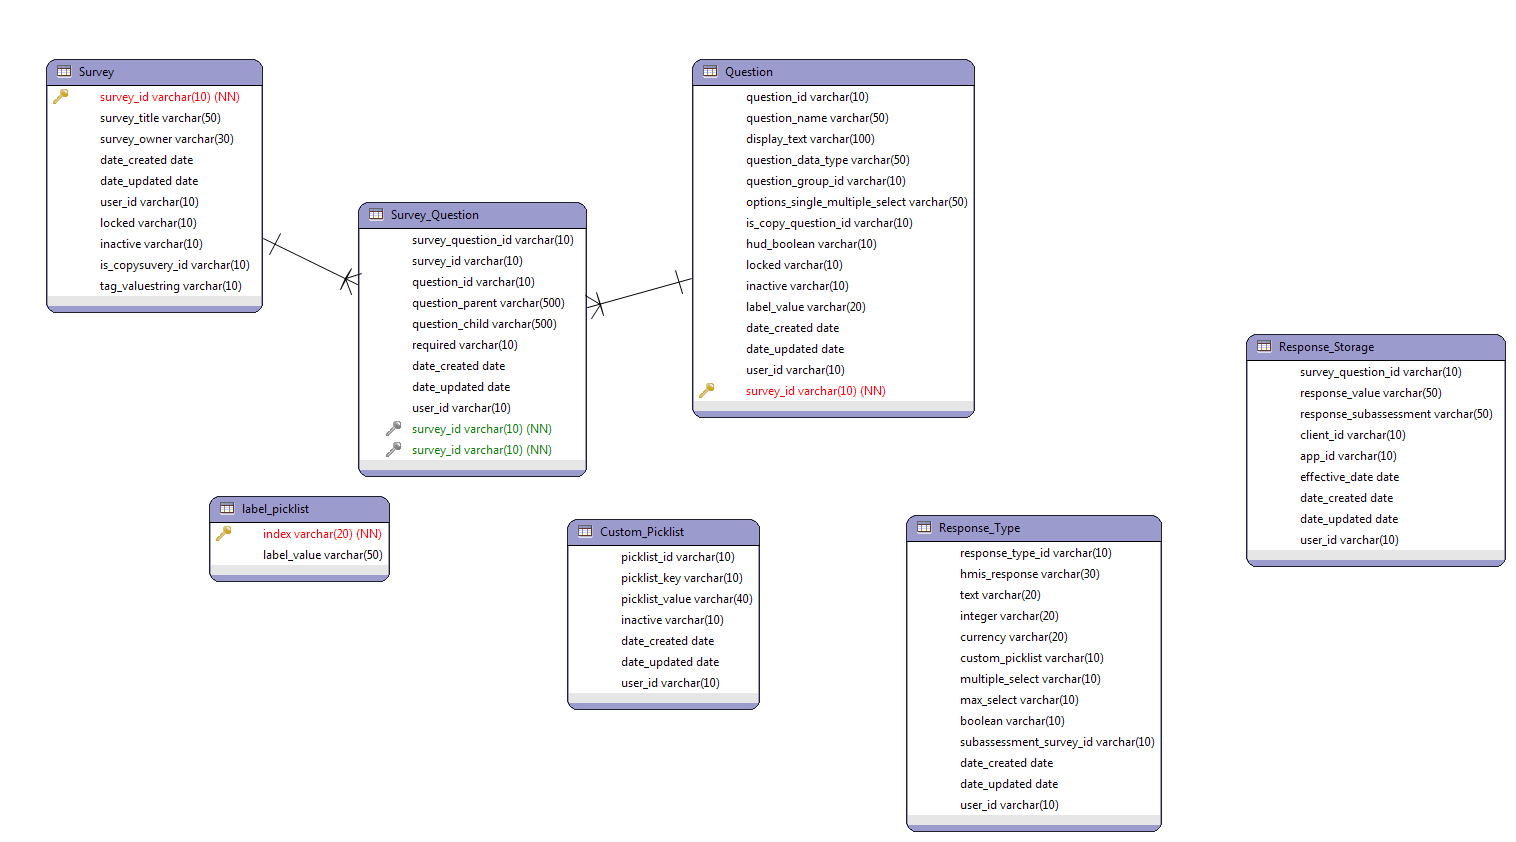
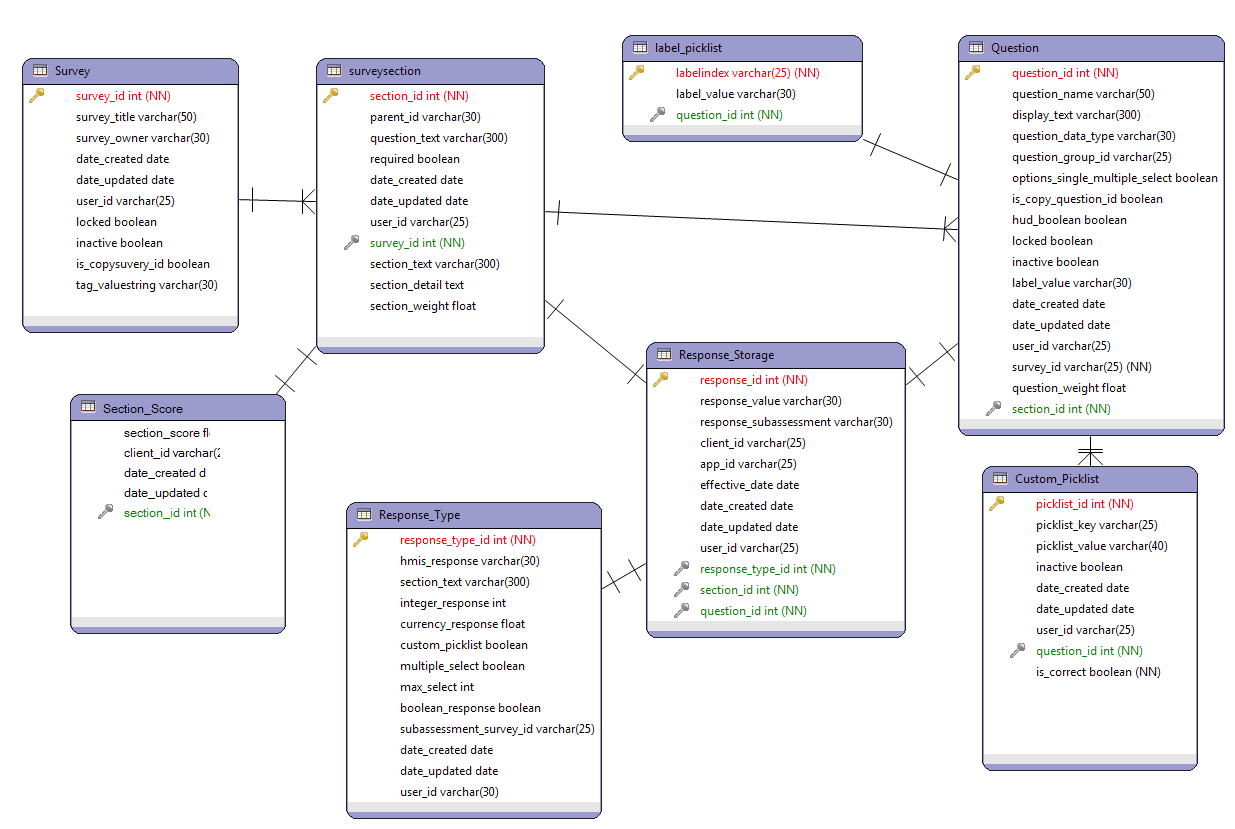
Updated ERD with same name and createsurvey API updated

diff --git a/survey/src/main/java/com/hserv/coordinatedentry/service/SurveyHandlerService.java b/survey/src/main/java/com/hserv/coordinatedentry/service/SurveyHandlerService.java
@@ -1,6 +1,6 @@
 package com.hserv.coordinatedentry.service;
 
-import java.util.ArrayList;
+import java.util.Iterator;
 import java.util.List;
 
 import javax.transaction.Transactional;
@@ -9,11 +9,14 @@ import org.springframework.beans.factory.annotation.Autowired;
 import org.springframework.dao.DataAccessException;
 import org.springframework.stereotype.Service;
 
+import com.hserv.coordinatedentry.entity.Question;
 import com.hserv.coordinatedentry.entity.Survey;
 import com.hserv.coordinatedentry.entity.SurveySection;
-import com.hserv.coordinatedentry.repository.SurveySectionRepository;
+import com.hserv.coordinatedentry.repository.QuestionBankRepository;
 import com.hserv.coordinatedentry.repository.SurveyRepository;
+import com.hserv.coordinatedentry.repository.SurveySectionRepository;
 import com.hserv.coordinatedentry.util.ResponseMessage;
+import com.hserv.coordinatedentry.view.QuestionView;
 import com.hserv.coordinatedentry.view.SurveySectionView;
 import com.hserv.coordinatedentry.view.SurveyView;
 import com.hserv.coordinatedentry.view.mapper.SurveyConverter;
@@ -24,15 +27,18 @@ public class SurveyHandlerService {
 
 	private SurveyRepository surveyRepository;
 	private SurveySectionRepository surveySectionRepository;
+	private QuestionBankRepository questionBankRepository;
 	private SurveyConverter surveyConverter;
 
 	@Autowired
 	public SurveyHandlerService(SurveyRepository surveyRepository,
 			SurveySectionRepository surveySectionRepository,
+			QuestionBankRepository questionBankRepository,
 			SurveyConverter surveyConverter) {
 		super();
 		this.surveyRepository = surveyRepository;
 		this.surveySectionRepository = surveySectionRepository;
+		this.questionBankRepository = questionBankRepository;
 		this.surveyConverter = surveyConverter;
 	}
 
@@ -43,11 +49,11 @@ public class SurveyHandlerService {
 		return surveyList;
 	}
 	
-	public SurveyView getSurveyById(Integer surveyId) {
+	public Survey getSurveyById(Integer surveyId) {
 		Survey survey = surveyRepository.findOne(surveyId);
 		SurveyView surveyView = new SurveyView(); 
 		surveyConverter.convertSurveyViewFromEntity(surveyView, survey);
-		return surveyView;
+		return survey;
 	}
 	
 	public ResponseMessage createSurvey(SurveyView surveyView) {
@@ -57,9 +63,15 @@ public class SurveyHandlerService {
 			surveyConverter.convertSurveyEntityFromView(survey, surveyView);
 			surveyRepository.save(survey);
 			
-			List<SurveySection> surveyQuestionsList = surveyConverter.populateSurveyQuestionEntityList(survey, surveyView.getSurveySection());
+			List<SurveySection> surveyQuestionsList = surveyConverter.populateSurveySectionEntityList(survey, surveyView.getSurveySection());
 			
 			surveySectionRepository.save(surveyQuestionsList);
+			for (Iterator iterator = surveyQuestionsList.iterator(); iterator
+					.hasNext();) {
+				SurveySection surveySection = (SurveySection) iterator.next();
+				questionBankRepository.save(surveySection.getQuestions());
+			}
+			
 			return ResponseMessage.SUCCESS;
 		}catch(RuntimeException exception){
 			return ResponseMessage.FAILURE;
@@ -74,14 +86,24 @@ public class SurveyHandlerService {
 			surveyRepository.saveAndFlush(survey);
 			for(SurveySectionView surveySectionView : surveyView.getSurveySection()){
 				System.out.println("surveyQuestion.getSurveyQuestionId() :"+surveySectionView.getSectionId());
-				SurveySection surveyQuestion = surveySectionRepository.findOne(surveySectionView.getSectionId());
-				surveyConverter.populateSurveyQuestionEntity(surveyQuestion, surveySectionView, survey);
-				surveySectionRepository.saveAndFlush(surveyQuestion);
+				SurveySection surveySection = surveySectionRepository.findOne(surveySectionView.getSectionId());
+				
+				surveyConverter.populateSurveySectionEntity(surveySection, surveySectionView, survey);
+				surveySectionRepository.saveAndFlush(surveySection);
+				updateQuestions(surveySectionView, surveySection);
 			}
 			
 			return ResponseMessage.SUCCESS;
 		}catch(RuntimeException exception){
 			return ResponseMessage.FAILURE;
+		}
+	}
+	
+	public void updateQuestions(SurveySectionView surveySectionView, SurveySection surveySection) {
+		for(QuestionView questionView : surveySectionView.getQuestions()){
+			Question question = questionBankRepository.findOne(questionView.getQuestionId());
+			surveyConverter.populateSurveyQuestionEntity(surveySection, question);
+			questionBankRepository.saveAndFlush(question);
 		}
 	}
 	

diff --git a/survey/src/main/java/com/hserv/coordinatedentry/view/mapper/SurveyConverter.java b/survey/src/main/java/com/hserv/coordinatedentry/view/mapper/SurveyConverter.java
@@ -10,6 +10,7 @@ import org.springframework.stereotype.Component;
 import com.hserv.coordinatedentry.entity.Question;
 import com.hserv.coordinatedentry.entity.Survey;
 import com.hserv.coordinatedentry.entity.SurveySection;
+import com.hserv.coordinatedentry.view.QuestionView;
 import com.hserv.coordinatedentry.view.SurveySectionView;
 import com.hserv.coordinatedentry.view.SurveyView;
 
@@ -35,7 +36,7 @@ public class SurveyConverter {
 		return survey;
 	}
 	
-	public List<SurveySection> populateSurveyQuestionEntityList(Survey survey, List<SurveySectionView> surveyQuestionViewList){
+	public List<SurveySection> populateSurveySectionEntityList(Survey survey, List<SurveySectionView> surveyQuestionViewList){
 		
 		List<SurveySection> surveyQuestionsList = new ArrayList<>();
 		
@@ -43,15 +44,16 @@ public class SurveyConverter {
 			for (Iterator iterator = surveyQuestionViewList.iterator(); iterator.hasNext();) {
 				SurveySectionView surveySectionView = (SurveySectionView) iterator.next();
 				
-				SurveySection surveyQuestion = new SurveySection();
-				populateSurveyQuestionEntity(surveyQuestion, surveySectionView, survey);
-				surveyQuestionsList.add(surveyQuestion);
+				SurveySection surveySection = new SurveySection();
+				
+				populateSurveySectionEntity(surveySection, surveySectionView, survey);
+				surveyQuestionsList.add(surveySection);
 			}
 		
 		return surveyQuestionsList;
 	}
 	
-	public SurveySection populateSurveyQuestionEntity(SurveySection surveySection, SurveySectionView surveySectionView, Survey survey){
+	public SurveySection populateSurveySectionEntity(SurveySection surveySection, SurveySectionView surveySectionView, Survey survey){
 		
 				surveySection.setDateCreated(surveySectionView.getDateCreated());
 				surveySection.setDateUpdated(surveySectionView.getDateUpdated());
@@ -66,7 +68,38 @@ public class SurveyConverter {
 				surveySection.setSectionDetail(surveySectionView.getSectionDetail());
 				surveySection.setSectionText(surveySectionView.getSectionText());
 				surveySection.setSectionWeight(surveySectionView.getSectionWeight());
+				surveySection.setQuestions(populateSurveyQuestionEntityList(surveySectionView, surveySection));
 				return surveySection;
+	}
+	
+	public List<Question> populateSurveyQuestionEntityList(SurveySectionView surveySectionView, SurveySection surveySection){
+		List<Question> questions = new ArrayList<>();
+		for (QuestionView questionView : surveySectionView.getQuestions()) {
+			Question question = new Question();
+			populateSurveyQuestionEntity(surveySection, question);
+			questions.add(question);
+		}
+		return questions;
+		
+	}
+	public Question populateSurveyQuestionEntity(SurveySection surveySection, Question question){
+		question.setDateCreated(new Date());
+		question.setDateUpdated(new Date());
+		question.setDisplayText("How frequent you go for vacations");
+		question.setHudBoolean(true);
+		question.setInactive(true);
+		question.setIsCopyQuestionId(false);
+		question.setLabelValue("HMIS Question");
+		question.setLocked(false);
+		question.setOptionsSingleMultipleSelect(true);
+		question.setQuestionDataType("Text");
+		question.setQuestionGroupId("Group1");
+		question.setQuestionName("Sample Question 1");
+		//question.setSurveyQuestion(surveyQuestions);
+		question.setUserId("Admin User");
+		//question.setSurveyId(surveySection.getSurveyId());
+		question.setSurveySection(surveySection);
+		return question;
 	}
 	
 	/*public List<SurveyView> convertSurveyViewListFromEntityList(List<SurveyView> surveyViewList, List<Survey> surveyList){
@@ -128,4 +161,6 @@ public class SurveyConverter {
 		surveySectionView.setSectionText(surveySection.getSectionText());
 		surveySectionView.setSectionWeight(surveySection.getSectionWeight());
 	}
+	
+	//public void populateQuestionViewFromRepo(Question)
 }

diff --git a/survey/src/main/java/com/hserv/coordinatedentry/controller/SurveyRESTImpl.java b/survey/src/main/java/com/hserv/coordinatedentry/controller/SurveyRESTImpl.java
@@ -25,23 +25,21 @@ import com.hserv.coordinatedentry.view.SurveyView;
 
 
 @RestController
+@RequestMapping("/surveys")
 public class SurveyRESTImpl {
 
 	private static final Logger logger = LoggerFactory
 			.getLogger(SurveyRESTImpl.class);
 	
-	private SurveyRepository surveyRepository;
 	private SurveyHandlerService surveyHandlerService;
 
 	@Autowired
-	public SurveyRESTImpl(SurveyRepository surveyRepository,
-			SurveyHandlerService surveyHandlerService) {
+	public SurveyRESTImpl(SurveyHandlerService surveyHandlerService) {
 		super();
-		this.surveyRepository = surveyRepository;
 		this.surveyHandlerService = surveyHandlerService;
 	}
 
-	@RequestMapping(method = RequestMethod.GET, value="/surveys/all")
+	@RequestMapping(method = RequestMethod.GET, value="/all")
 	public @ResponseBody WSResponse getSurveyQuestions(){
 		WSResponse wsRepsSts= null;
 		List<Survey> surveys = null;
@@ -61,17 +59,23 @@ public class SurveyRESTImpl {
 		
 	}
 
-	@RequestMapping(method = RequestMethod.GET, value="/surveys/{surveyId}")
+	@RequestMapping(method = RequestMethod.GET, value="/{surveyId}")
 	public @ResponseBody WSResponse getSelectedSurvey(@PathVariable Integer surveyId){
 		WSResponse wsRepsSts= null;
 		Survey survey = null;
 
 		try{
 			wsRepsSts = new WSResponse();
-			survey = surveyRepository.findOne(surveyId);
-			wsRepsSts.setData(survey);
-			wsRepsSts.setStatusCode("200");
-			wsRepsSts.setStatusMessage("Success");
+			survey = surveyHandlerService.getSurveyById(surveyId);
+			if(survey != null) {
+				wsRepsSts.setData(survey);
+				wsRepsSts.setStatusCode("200");
+				wsRepsSts.setStatusMessage("Success");
+			} else {
+				wsRepsSts.setData(null);
+				wsRepsSts.setStatusCode("500");
+				wsRepsSts.setStatusMessage("Failure - No survey exists for survey Id " +surveyId);				
+			}
 		}catch(Exception e){
 			wsRepsSts.setErroMessage("Something Wrong in fetching Servey"+e.getMessage());
 		}
@@ -81,7 +85,7 @@ public class SurveyRESTImpl {
 	}
 
 	// /service/secure/survey/create - POST
-	@RequestMapping(method = RequestMethod.POST, value="/surveys/create")
+	@RequestMapping(method = RequestMethod.POST, value="/create")
 	public @ResponseBody WSResponse createSurvey(@RequestBody SurveyView surveyView){
 		logger.debug("Creating new Survey...............");
 		WSResponse wsResponse = null;
@@ -103,7 +107,7 @@ public class SurveyRESTImpl {
 		return wsResponse;
 	}
 	
-	@RequestMapping(method = RequestMethod.PUT, value="/surveys/{surveyId}/update")
+	@RequestMapping(method = RequestMethod.PUT, value="/{surveyId}")
 	public @ResponseBody WSResponse updateSurvey(@PathVariable("surveyId") String surveyId, @RequestBody SurveyView surveyView){
 		WSResponse wsResponse = null;
 		System.out.println("update called : "+ surveyId);
@@ -123,7 +127,7 @@ public class SurveyRESTImpl {
 	}
 
 
-	@RequestMapping(method = RequestMethod.DELETE, value="/surveys/{surveyId}")
+	@RequestMapping(method = RequestMethod.DELETE, value="/{surveyId}")
 	public @ResponseBody WSResponse deleteSurvey(@PathVariable("surveyId") Integer surveyId){
 		WSResponse wsResponse = null;
 		System.out.println("surveyId ; "+surveyId);
@@ -140,11 +144,11 @@ public class SurveyRESTImpl {
 		return wsResponse;
 	}
 
-	@RequestMapping("service/survey/byTitle")
+	/*@RequestMapping("service/survey/byTitle")
 	public @ResponseBody List<Survey> getSurveyByTitle(@Param ("title") String title){
 		List response = surveyRepository.findBySurveyTitleContainingAllIgnoringCase(title);
 		return response;
 
-	}
+	}*/
 
 }

diff --git a/survey/src/main/java/com/hserv/coordinatedentry/view/SurveySectionView.java b/survey/src/main/java/com/hserv/coordinatedentry/view/SurveySectionView.java
@@ -2,24 +2,33 @@ package com.hserv.coordinatedentry.view;
 
 import java.io.Serializable;
 import java.util.Date;
+import java.util.List;
 
+import javax.persistence.CascadeType;
 import javax.persistence.Column;
-import javax.persistence.Entity;
 import javax.persistence.GeneratedValue;
 import javax.persistence.GenerationType;
 import javax.persistence.Id;
 import javax.persistence.JoinColumn;
 import javax.persistence.ManyToOne;
+import javax.persistence.OneToMany;
 
 import com.fasterxml.jackson.annotation.JsonBackReference;
+import com.fasterxml.jackson.annotation.JsonManagedReference;
 import com.fasterxml.jackson.databind.annotation.JsonSerialize;
+import com.hserv.coordinatedentry.entity.Question;
+import com.hserv.coordinatedentry.entity.Survey;
 import com.hserv.coordinatedentry.util.JsonDateSerializer;
 
 public class SurveySectionView implements Serializable {
+	
+
 
 	/** serialVersionUID. */
 	private static final long serialVersionUID = 1L;
 
+	private Integer sectionId;
+	
 	/** survey_id. */
 	private Integer surveyId;
 
@@ -46,12 +55,12 @@ public class SurveySectionView implements Serializable {
 	/** user_id. */
 	private String userId;
 	
-	/** section_id. */
-	private Integer sectionId;
 
-	private SurveyView surveyView;
+	/** Survey. */
+	private Survey survey;
 
-	private QuestionView questionView;
+	/** Question. */
+	private List<QuestionView> questions;
 
 	private String sectionDetail;
 
@@ -203,11 +212,11 @@ public class SurveySectionView implements Serializable {
 	/**
 	 * Set the Survey.
 	 * 
-	 * @param surveyView
+	 * @param survey
 	 *            Survey
 	 */
-	public void setSurvey(SurveyView surveyView) {
-		this.surveyView = surveyView;
+	public void setSurvey(Survey survey) {
+		this.survey = survey;
 	}
 
 	/**
@@ -215,30 +224,26 @@ public class SurveySectionView implements Serializable {
 	 * 
 	 * @return Survey
 	 */
-	public SurveyView getSurvey() {
-		return this.surveyView;
+	public Survey getSurvey() {
+		return this.survey;
 	}
 
 	/**
 	 * Set the Question.
 	 * 
-	 * @param questionView
+	 * @param question
 	 *            Question
 	 */
-	public void setQuestion(QuestionView questionView) {
-		this.questionView = questionView;
-	}
-
-	/**
-	 * Get the Question.
-	 * 
-	 * @return Question
-	 */
-	public QuestionView getQuestion() {
-		return this.questionView;
+	
+	public List<QuestionView> getQuestions() {
+		return questions;
 	}
 
 
+	public void setQuestions(List<QuestionView> questions) {
+		this.questions = questions;
+	}
+	
 	public Integer getSectionId() {
 		return sectionId;
 	}
@@ -278,4 +283,6 @@ public class SurveySectionView implements Serializable {
 		this.sectionWeight = sectionWeight;
 	}
 
+
+	
 }
